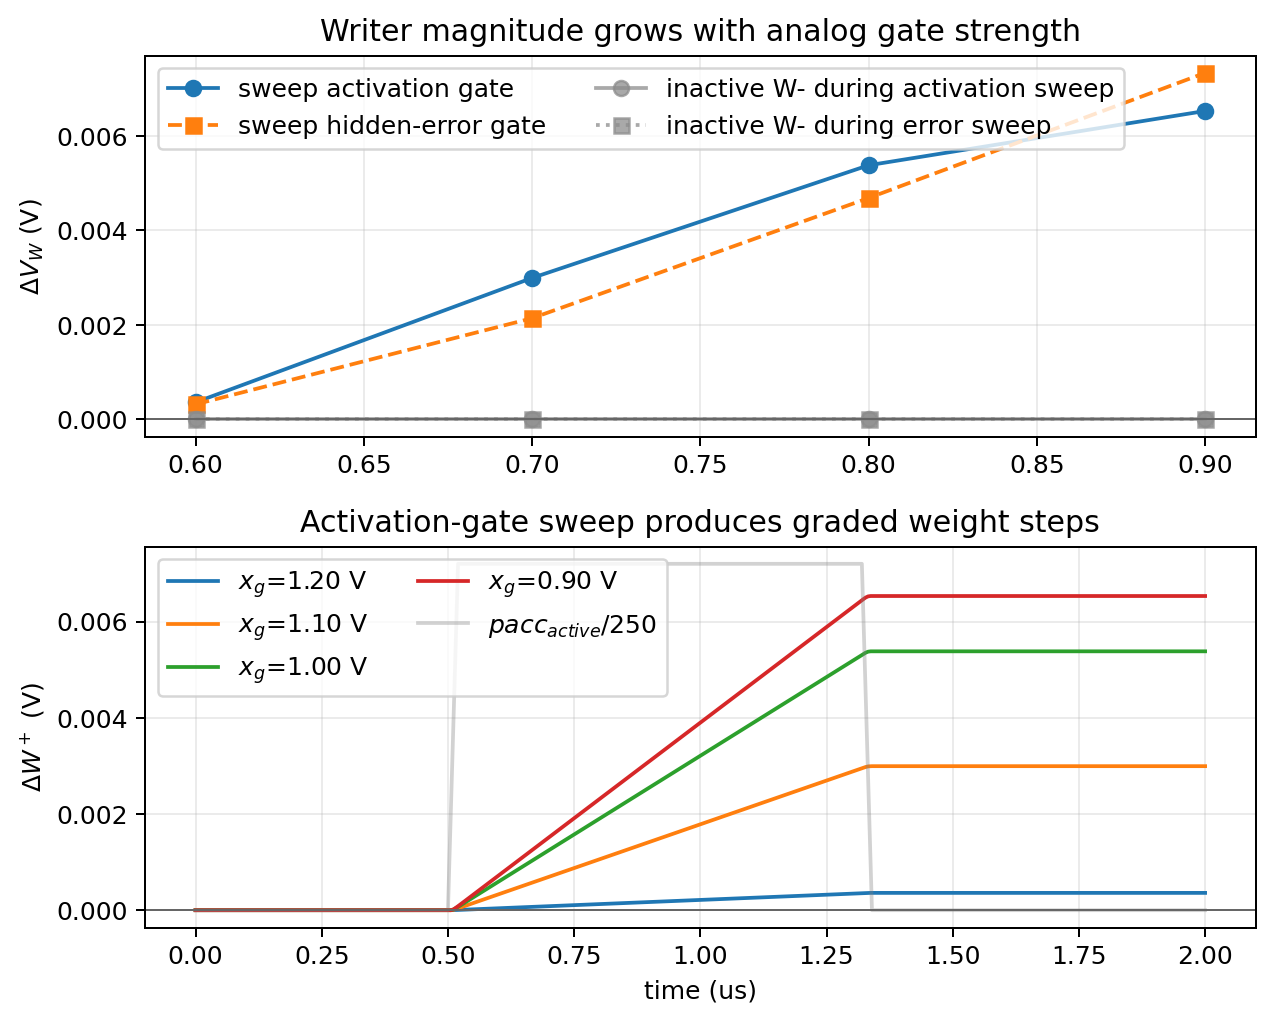
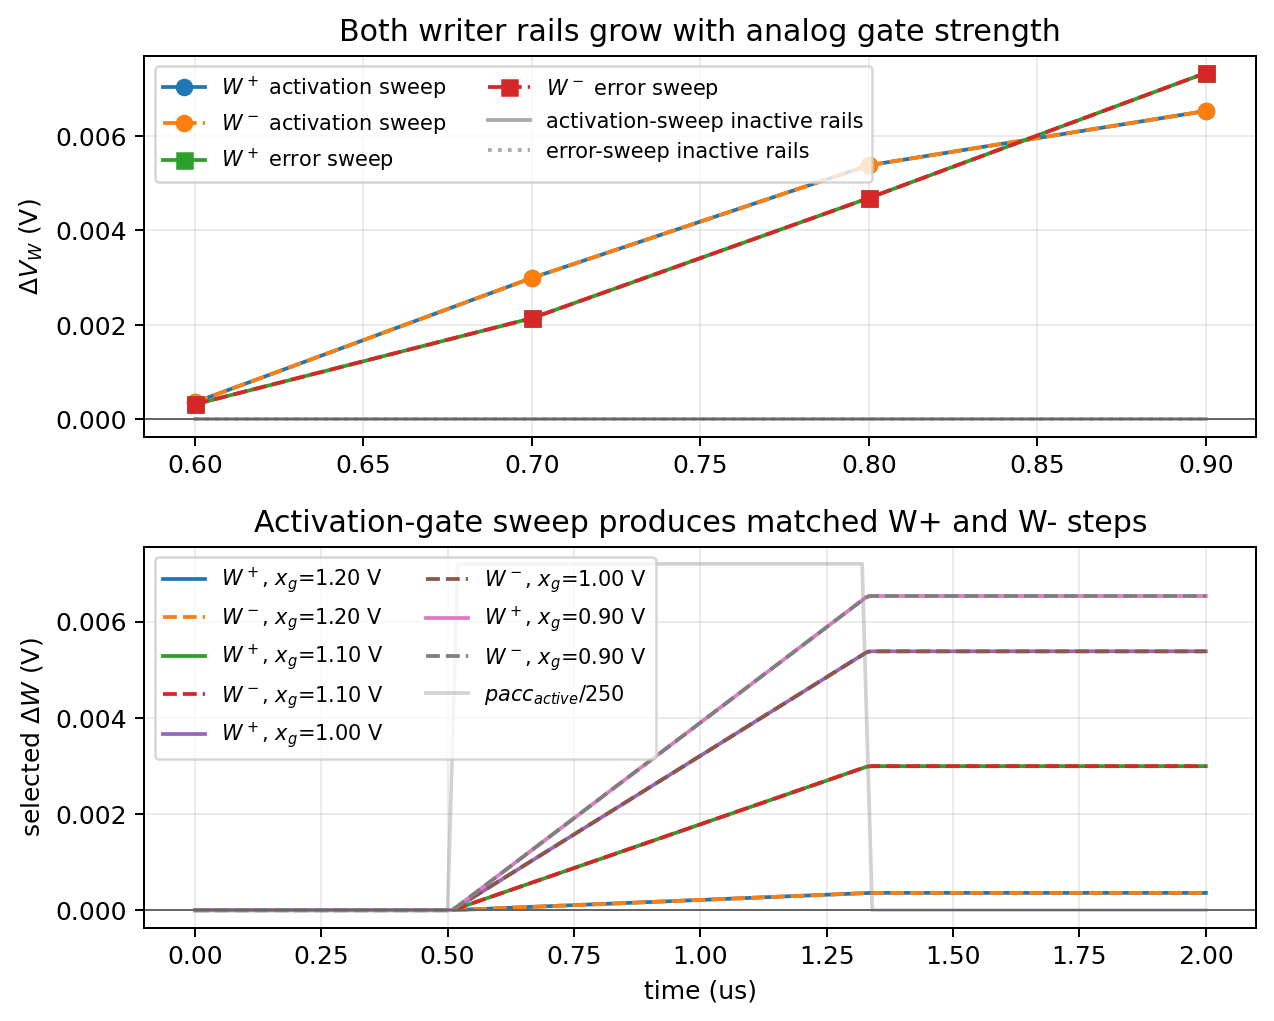
Complete analog writer gate sweep

diff --git a/spice/run_mos_cell_characterization.py b/spice/run_mos_cell_characterization.py
@@ -16178,38 +16178,56 @@ quit
             f"""
 VXG_X{idx} xg_x{idx} 0 {xgate:.2f}
 VDG_X{idx} dg_x{idx} 0 0.95
-CWP_X{idx} wp_x{idx} 0 {{CWRITE}} IC=0.85
-CWM_X{idx} wm_x{idx} 0 {{CWRITE}} IC=0.85
-MWP_X{idx}A vdd paccn n_wp_x{idx}_a vdd PMOS L={{LCH}} W={{WWRITE}}
-MWP_X{idx}B n_wp_x{idx}_a xg_x{idx} n_wp_x{idx}_b vdd PMOS L={{LCH}} W={{WWRITE}}
-MWP_X{idx}C n_wp_x{idx}_b dg_x{idx} wp_x{idx} vdd PMOS L={{LCH}} W={{WWRITE}}
-MWM_X{idx}A vdd paccn n_wm_x{idx}_a vdd PMOS L={{LCH}} W={{WWRITE}}
-MWM_X{idx}B n_wm_x{idx}_a xg_x{idx} n_wm_x{idx}_b vdd PMOS L={{LCH}} W={{WWRITE}}
-MWM_X{idx}C n_wm_x{idx}_b hi wm_x{idx} vdd PMOS L={{LCH}} W={{WWRITE}}
+CWP_XP{idx} wp_xp{idx} 0 {{CWRITE}} IC=0.85
+CWM_XP{idx} wm_xp{idx} 0 {{CWRITE}} IC=0.85
+MWP_XP{idx}A vdd paccn n_wp_xp{idx}_a vdd PMOS L={{LCH}} W={{WWRITE}}
+MWP_XP{idx}B n_wp_xp{idx}_a xg_x{idx} n_wp_xp{idx}_b vdd PMOS L={{LCH}} W={{WWRITE}}
+MWP_XP{idx}C n_wp_xp{idx}_b dg_x{idx} wp_xp{idx} vdd PMOS L={{LCH}} W={{WWRITE}}
+MWM_XP{idx}A vdd paccn n_wm_xp{idx}_a vdd PMOS L={{LCH}} W={{WWRITE}}
+MWM_XP{idx}B n_wm_xp{idx}_a xg_x{idx} n_wm_xp{idx}_b vdd PMOS L={{LCH}} W={{WWRITE}}
+MWM_XP{idx}C n_wm_xp{idx}_b hi wm_xp{idx} vdd PMOS L={{LCH}} W={{WWRITE}}
+
+CWP_XN{idx} wp_xn{idx} 0 {{CWRITE}} IC=0.85
+CWM_XN{idx} wm_xn{idx} 0 {{CWRITE}} IC=0.85
+MWP_XN{idx}A vdd paccn n_wp_xn{idx}_a vdd PMOS L={{LCH}} W={{WWRITE}}
+MWP_XN{idx}B n_wp_xn{idx}_a xg_x{idx} n_wp_xn{idx}_b vdd PMOS L={{LCH}} W={{WWRITE}}
+MWP_XN{idx}C n_wp_xn{idx}_b hi wp_xn{idx} vdd PMOS L={{LCH}} W={{WWRITE}}
+MWM_XN{idx}A vdd paccn n_wm_xn{idx}_a vdd PMOS L={{LCH}} W={{WWRITE}}
+MWM_XN{idx}B n_wm_xn{idx}_a xg_x{idx} n_wm_xn{idx}_b vdd PMOS L={{LCH}} W={{WWRITE}}
+MWM_XN{idx}C n_wm_xn{idx}_b dg_x{idx} wm_xn{idx} vdd PMOS L={{LCH}} W={{WWRITE}}
 """
         )
-        analog_prints.extend([f"v(wp_x{idx})", f"v(wm_x{idx})"])
+        analog_prints.extend([f"v(wp_xp{idx})", f"v(wm_xp{idx})", f"v(wp_xn{idx})", f"v(wm_xn{idx})"])
     for idx, dgate in enumerate(analog_gate_levels):
         analog_devices.append(
             f"""
 VXG_D{idx} xg_d{idx} 0 0.95
 VDG_D{idx} dg_d{idx} 0 {dgate:.2f}
-CWP_D{idx} wp_d{idx} 0 {{CWRITE}} IC=0.85
-CWM_D{idx} wm_d{idx} 0 {{CWRITE}} IC=0.85
-MWP_D{idx}A vdd paccn n_wp_d{idx}_a vdd PMOS L={{LCH}} W={{WWRITE}}
-MWP_D{idx}B n_wp_d{idx}_a xg_d{idx} n_wp_d{idx}_b vdd PMOS L={{LCH}} W={{WWRITE}}
-MWP_D{idx}C n_wp_d{idx}_b dg_d{idx} wp_d{idx} vdd PMOS L={{LCH}} W={{WWRITE}}
-MWM_D{idx}A vdd paccn n_wm_d{idx}_a vdd PMOS L={{LCH}} W={{WWRITE}}
-MWM_D{idx}B n_wm_d{idx}_a xg_d{idx} n_wm_d{idx}_b vdd PMOS L={{LCH}} W={{WWRITE}}
-MWM_D{idx}C n_wm_d{idx}_b hi wm_d{idx} vdd PMOS L={{LCH}} W={{WWRITE}}
+CWP_DP{idx} wp_dp{idx} 0 {{CWRITE}} IC=0.85
+CWM_DP{idx} wm_dp{idx} 0 {{CWRITE}} IC=0.85
+MWP_DP{idx}A vdd paccn n_wp_dp{idx}_a vdd PMOS L={{LCH}} W={{WWRITE}}
+MWP_DP{idx}B n_wp_dp{idx}_a xg_d{idx} n_wp_dp{idx}_b vdd PMOS L={{LCH}} W={{WWRITE}}
+MWP_DP{idx}C n_wp_dp{idx}_b dg_d{idx} wp_dp{idx} vdd PMOS L={{LCH}} W={{WWRITE}}
+MWM_DP{idx}A vdd paccn n_wm_dp{idx}_a vdd PMOS L={{LCH}} W={{WWRITE}}
+MWM_DP{idx}B n_wm_dp{idx}_a xg_d{idx} n_wm_dp{idx}_b vdd PMOS L={{LCH}} W={{WWRITE}}
+MWM_DP{idx}C n_wm_dp{idx}_b hi wm_dp{idx} vdd PMOS L={{LCH}} W={{WWRITE}}
+
+CWP_DN{idx} wp_dn{idx} 0 {{CWRITE}} IC=0.85
+CWM_DN{idx} wm_dn{idx} 0 {{CWRITE}} IC=0.85
+MWP_DN{idx}A vdd paccn n_wp_dn{idx}_a vdd PMOS L={{LCH}} W={{WWRITE}}
+MWP_DN{idx}B n_wp_dn{idx}_a xg_d{idx} n_wp_dn{idx}_b vdd PMOS L={{LCH}} W={{WWRITE}}
+MWP_DN{idx}C n_wp_dn{idx}_b hi wp_dn{idx} vdd PMOS L={{LCH}} W={{WWRITE}}
+MWM_DN{idx}A vdd paccn n_wm_dn{idx}_a vdd PMOS L={{LCH}} W={{WWRITE}}
+MWM_DN{idx}B n_wm_dn{idx}_a xg_d{idx} n_wm_dn{idx}_b vdd PMOS L={{LCH}} W={{WWRITE}}
+MWM_DN{idx}C n_wm_dn{idx}_b dg_d{idx} wm_dn{idx} vdd PMOS L={{LCH}} W={{WWRITE}}
 """
         )
-        analog_prints.extend([f"v(wp_d{idx})", f"v(wm_d{idx})"])
+        analog_prints.extend([f"v(wp_dp{idx})", f"v(wm_dp{idx})", f"v(wp_dn{idx})", f"v(wm_dn{idx})"])
     analog_gate_deck = f"""
 * Four-quadrant writer analog gate-strength sweep.
 * The selected same-sign branch uses active-low PMOS gates.  Lower activation
-* or hidden-error gate voltage should increase the W+ update magnitude while
-* the inactive W- branch stays quiet.
+* or hidden-error gate voltage should increase the selected W+ and W- update
+* magnitudes while inactive opposite rails stay quiet.
 {COMMON_MODELS}
 .param WWRITE=2u CWRITE=500p
 VDD vdd 0 1.8
@@ -16535,28 +16553,54 @@ quit
     require(r_squared(selected_wm_delta, predicted_wm) > 0.98, "W- writer pulse-width response should be near-linear")
 
     analog_data = run_ngspice(analog_gate_deck, "mos_writer_analog_gate")
-    atime_gate, analog_cols = load_wrdata(analog_data, 2 * len(analog_gate_levels) * 2 + 1)
-    xgate_steps = np.array(
-        [analog_cols[2 * idx][-1] - analog_cols[2 * idx][0] for idx in range(len(analog_gate_levels))]
+    atime_gate, analog_cols = load_wrdata(analog_data, 4 * len(analog_gate_levels) * 2 + 1)
+    xgate_wp_steps = np.array(
+        [analog_cols[4 * idx][-1] - analog_cols[4 * idx][0] for idx in range(len(analog_gate_levels))]
     )
-    xgate_inactive = np.array(
-        [analog_cols[2 * idx + 1][-1] - analog_cols[2 * idx + 1][0] for idx in range(len(analog_gate_levels))]
+    xgate_wm_inactive = np.array(
+        [analog_cols[4 * idx + 1][-1] - analog_cols[4 * idx + 1][0] for idx in range(len(analog_gate_levels))]
     )
-    d_offset = 2 * len(analog_gate_levels)
-    dgate_steps = np.array(
-        [analog_cols[d_offset + 2 * idx][-1] - analog_cols[d_offset + 2 * idx][0] for idx in range(len(analog_gate_levels))]
+    xgate_wp_inactive = np.array(
+        [analog_cols[4 * idx + 2][-1] - analog_cols[4 * idx + 2][0] for idx in range(len(analog_gate_levels))]
     )
-    dgate_inactive = np.array(
-        [analog_cols[d_offset + 2 * idx + 1][-1] - analog_cols[d_offset + 2 * idx + 1][0] for idx in range(len(analog_gate_levels))]
+    xgate_wm_steps = np.array(
+        [analog_cols[4 * idx + 3][-1] - analog_cols[4 * idx + 3][0] for idx in range(len(analog_gate_levels))]
     )
-    require(np.all(np.diff(xgate_steps) > 5e-4), "W+ step should increase as activation gate gets more active-low")
-    require(np.all(np.diff(dgate_steps) > 5e-4), "W+ step should increase as hidden-error gate gets more active-low")
-    require(xgate_steps[-1] - xgate_steps[0] > 0.005, "activation gate sweep should have visible dynamic range")
-    require(dgate_steps[-1] - dgate_steps[0] > 0.005, "hidden-error gate sweep should have visible dynamic range")
-    require(np.max(np.abs(xgate_inactive)) < 1e-3, "analog activation sweep should leave inactive W- branch quiet")
-    require(np.max(np.abs(dgate_inactive)) < 1e-3, "analog hidden-error sweep should leave inactive W- branch quiet")
-    require(xgate_steps[0] > 0.0 and dgate_steps[0] > 0.0, "weak analog writer gates should still produce small positive steps")
-    require(xgate_steps[-1] < 0.25 and dgate_steps[-1] < 0.25, "strong analog writer gates should remain in incremental range")
+    d_offset = 4 * len(analog_gate_levels)
+    dgate_wp_steps = np.array(
+        [analog_cols[d_offset + 4 * idx][-1] - analog_cols[d_offset + 4 * idx][0] for idx in range(len(analog_gate_levels))]
+    )
+    dgate_wm_inactive = np.array(
+        [analog_cols[d_offset + 4 * idx + 1][-1] - analog_cols[d_offset + 4 * idx + 1][0] for idx in range(len(analog_gate_levels))]
+    )
+    dgate_wp_inactive = np.array(
+        [analog_cols[d_offset + 4 * idx + 2][-1] - analog_cols[d_offset + 4 * idx + 2][0] for idx in range(len(analog_gate_levels))]
+    )
+    dgate_wm_steps = np.array(
+        [analog_cols[d_offset + 4 * idx + 3][-1] - analog_cols[d_offset + 4 * idx + 3][0] for idx in range(len(analog_gate_levels))]
+    )
+    for selected_steps, label in (
+        (xgate_wp_steps, "W+ activation-gate"),
+        (xgate_wm_steps, "W- activation-gate"),
+        (dgate_wp_steps, "W+ hidden-error-gate"),
+        (dgate_wm_steps, "W- hidden-error-gate"),
+    ):
+        require(np.all(np.diff(selected_steps) > 5e-4), f"{label} step should grow as the swept gate gets more active-low")
+        require(selected_steps[-1] - selected_steps[0] > 0.005, f"{label} sweep should have visible dynamic range")
+        require(selected_steps[0] > 0.0, f"weak {label} drive should still produce a small positive step")
+        require(selected_steps[-1] < 0.25, f"strong {label} drive should remain in the incremental range")
+    require(np.max(np.abs(xgate_wm_inactive)) < 1e-3, "activation sweep should leave same-sign inactive W- branch quiet")
+    require(np.max(np.abs(xgate_wp_inactive)) < 1e-3, "activation sweep should leave opposite-sign inactive W+ branch quiet")
+    require(np.max(np.abs(dgate_wm_inactive)) < 1e-3, "hidden-error sweep should leave same-sign inactive W- branch quiet")
+    require(np.max(np.abs(dgate_wp_inactive)) < 1e-3, "hidden-error sweep should leave opposite-sign inactive W+ branch quiet")
+    require(
+        np.max(np.abs(xgate_wp_steps - xgate_wm_steps)) < 0.0015,
+        "analog activation sweep should preserve W+/W- selected-step symmetry",
+    )
+    require(
+        np.max(np.abs(dgate_wp_steps - dgate_wm_steps)) < 0.0015,
+        "analog hidden-error sweep should preserve W+/W- selected-step symmetry",
+    )
 
     mismatch_data = run_ngspice(mismatch_deck, "mos_writer_mismatch")
     mt, mismatch_cols = load_wrdata(mismatch_data, 4 * len(mismatch_levels) + 1)
@@ -16751,24 +16795,49 @@ quit
 
     analog_fig, analog_axes = plt.subplots(2, 1, figsize=(7.2, 5.8))
     analog_strength = 1.8 - np.array(analog_gate_levels)
-    analog_axes[0].plot(analog_strength, xgate_steps, "o-", label="sweep activation gate")
-    analog_axes[0].plot(analog_strength, dgate_steps, "s--", label="sweep hidden-error gate")
-    analog_axes[0].plot(analog_strength, xgate_inactive, "o-", color="0.55", alpha=0.75, label="inactive W- during activation sweep")
-    analog_axes[0].plot(analog_strength, dgate_inactive, "s:", color="0.55", alpha=0.75, label="inactive W- during error sweep")
+    analog_axes[0].plot(analog_strength, xgate_wp_steps, "o-", label="$W^+$ activation sweep")
+    analog_axes[0].plot(analog_strength, xgate_wm_steps, "o--", label="$W^-$ activation sweep")
+    analog_axes[0].plot(analog_strength, dgate_wp_steps, "s-", label="$W^+$ error sweep")
+    analog_axes[0].plot(analog_strength, dgate_wm_steps, "s--", label="$W^-$ error sweep")
+    analog_axes[0].plot(
+        analog_strength,
+        np.maximum(np.abs(xgate_wm_inactive), np.abs(xgate_wp_inactive)),
+        color="0.55",
+        alpha=0.75,
+        label="activation-sweep inactive rails",
+    )
+    analog_axes[0].plot(
+        analog_strength,
+        np.maximum(np.abs(dgate_wm_inactive), np.abs(dgate_wp_inactive)),
+        ":",
+        color="0.55",
+        alpha=0.75,
+        label="error-sweep inactive rails",
+    )
     analog_axes[0].axhline(0, color="0.4", linewidth=0.8)
     analog_axes[0].set_ylabel("$\\Delta V_W$ (V)")
-    analog_axes[0].set_title("Writer magnitude grows with analog gate strength")
+    analog_axes[0].set_title("Both writer rails grow with analog gate strength")
     analog_axes[0].grid(True, alpha=0.25)
-    analog_axes[0].legend(loc="upper left", ncol=2)
+    analog_axes[0].legend(loc="upper left", ncol=2, fontsize="small")
     for idx, level in enumerate(analog_gate_levels):
-        analog_axes[1].plot(1e6 * atime_gate, analog_cols[2 * idx] - analog_cols[2 * idx][0], label=f"$x_g$={level:.2f} V")
+        analog_axes[1].plot(
+            1e6 * atime_gate,
+            analog_cols[4 * idx] - analog_cols[4 * idx][0],
+            label=f"$W^+$, $x_g$={level:.2f} V",
+        )
+        analog_axes[1].plot(
+            1e6 * atime_gate,
+            analog_cols[4 * idx + 3] - analog_cols[4 * idx + 3][0],
+            "--",
+            label=f"$W^-$, $x_g$={level:.2f} V",
+        )
     analog_axes[1].plot(1e6 * atime_gate, (1.8 - analog_cols[-1]) / 250.0, color="0.5", alpha=0.35, label="$pacc_{active}/250$")
     analog_axes[1].axhline(0, color="0.4", linewidth=0.8)
     analog_axes[1].set_xlabel("time (us)")
-    analog_axes[1].set_ylabel("$\\Delta W^+$ (V)")
-    analog_axes[1].set_title("Activation-gate sweep produces graded weight steps")
+    analog_axes[1].set_ylabel("selected $\\Delta W$ (V)")
+    analog_axes[1].set_title("Activation-gate sweep produces matched W+ and W- steps")
     analog_axes[1].grid(True, alpha=0.25)
-    analog_axes[1].legend(loc="upper left", ncol=2)
+    analog_axes[1].legend(loc="upper left", ncol=2, fontsize="small")
     analog_fig.tight_layout()
     save_plot(analog_fig, "mos_writer_analog_gate_ngspice")
 

diff --git a/docs/spicenn_progress_note.tex b/docs/spicenn_progress_note.tex
@@ -2773,10 +2773,15 @@ must satisfy before it can replace the current behavioral prototype.
   \centering
   \includegraphics[width=0.88\linewidth]{figures/mos_writer_analog_gate_ngspice.png}
   \caption{Ngspice analog gate-strength characterization of the MOS writer.
-  The selected same-sign branch uses active-low PMOS gates, so lowering either
-  the activation gate or the hidden-error gate increases the selected
-  \(W^+\) write current.  The sweep shows a monotone, compressed update curve
-  over the tested gate range while the inactive \(W^-\) branch remains quiet.
+  The selected same-sign and opposite-sign branches both use active-low PMOS
+  gates, so lowering either the activation gate or the hidden-error gate
+  increases the selected \(W^+\) or \(W^-\) write current.  The sweep now
+  instantiates matched \(W^+\) and \(W^-\) copies for both gate axes:
+  activation-gate selected steps are \(0.360/2.994/5.381/6.531\) mV on both
+  rails, hidden-error-gate selected steps are \(0.317/2.141/4.687/7.337\) mV
+  on both rails, and inactive opposite rails remain at about
+  \(0.004\,\mu\mathrm{V}\).  The result is monotone and symmetric, but
+  compressed over the tested gate range.
   This is not an ideal four-quadrant multiplier; it is the usable analog
   operating window for a local coincidence writer whose magnitude is still
   controlled by the stored rails and phase pulse.}

diff --git a/engineering_log.md b/engineering_log.md
@@ -2,6 +2,18 @@
 
 ## 2026-05-25
 
+- Family-completed the basic MOS writer analog-gate characterization.  The
+  earlier sweep only varied the same-sign \(W^+\) selected branch with analog
+  activation/error gates; the opposite-sign \(W^-\) branch had only binary and
+  mismatch coverage.  The regenerated ngspice deck now instantiates matched
+  same-sign and opposite-sign copies for both activation-gate and
+  hidden-error-gate sweeps.  Activation-gate selected steps are
+  \(0.360/2.994/5.381/6.531\) mV on both \(W^+\) and \(W^-\) for gate strengths
+  \(0.60/0.70/0.80/0.90\) V.  Hidden-error-gate selected steps are
+  \(0.317/2.141/4.687/7.337\) mV on both rails.  The inactive opposite rails
+  stay at about \(0.004\,\mu\mathrm{V}\).  This closes a writer family gap:
+  analog magnitude control is now plotted and asserted for both selected
+  update signs, not just \(W^+\).
 - Added the tuned-\(0.80\) V fast-start precharge strength sweep that the
   previous startup note left as a design option.  The ngspice fixture keeps
   the same MOS precharge/reset path and cold \(250\) pF trim reservoirs, but
